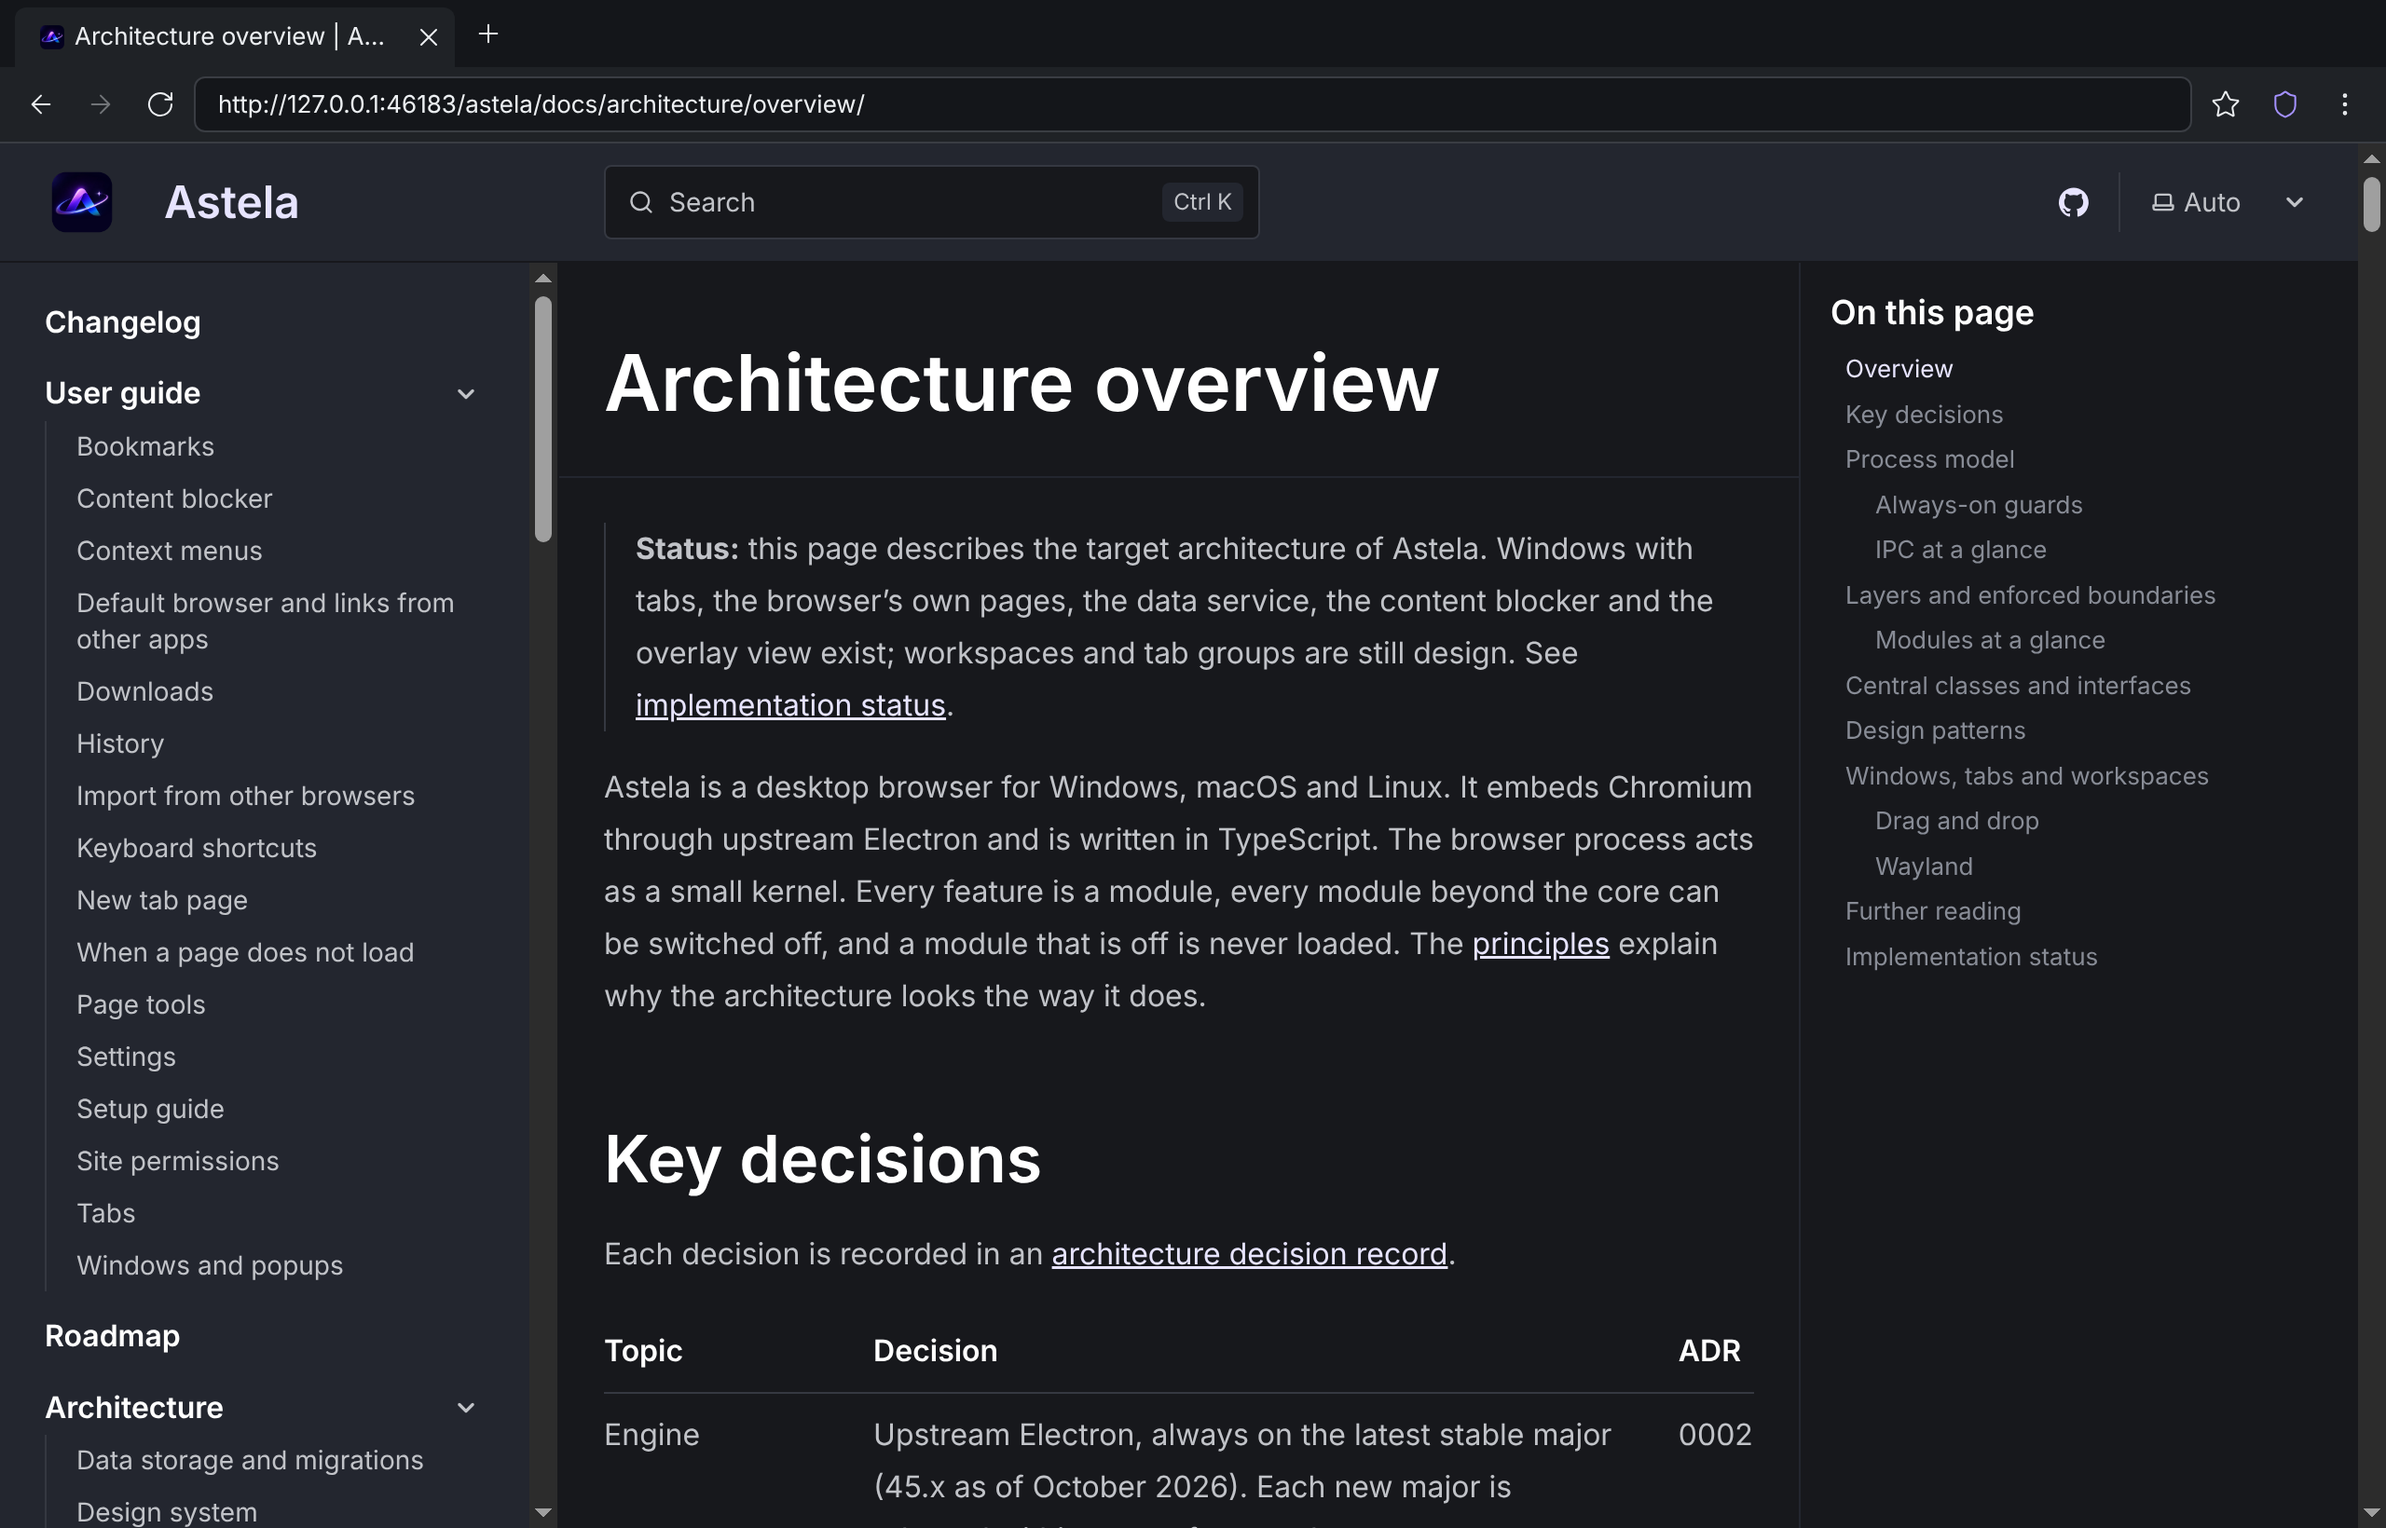
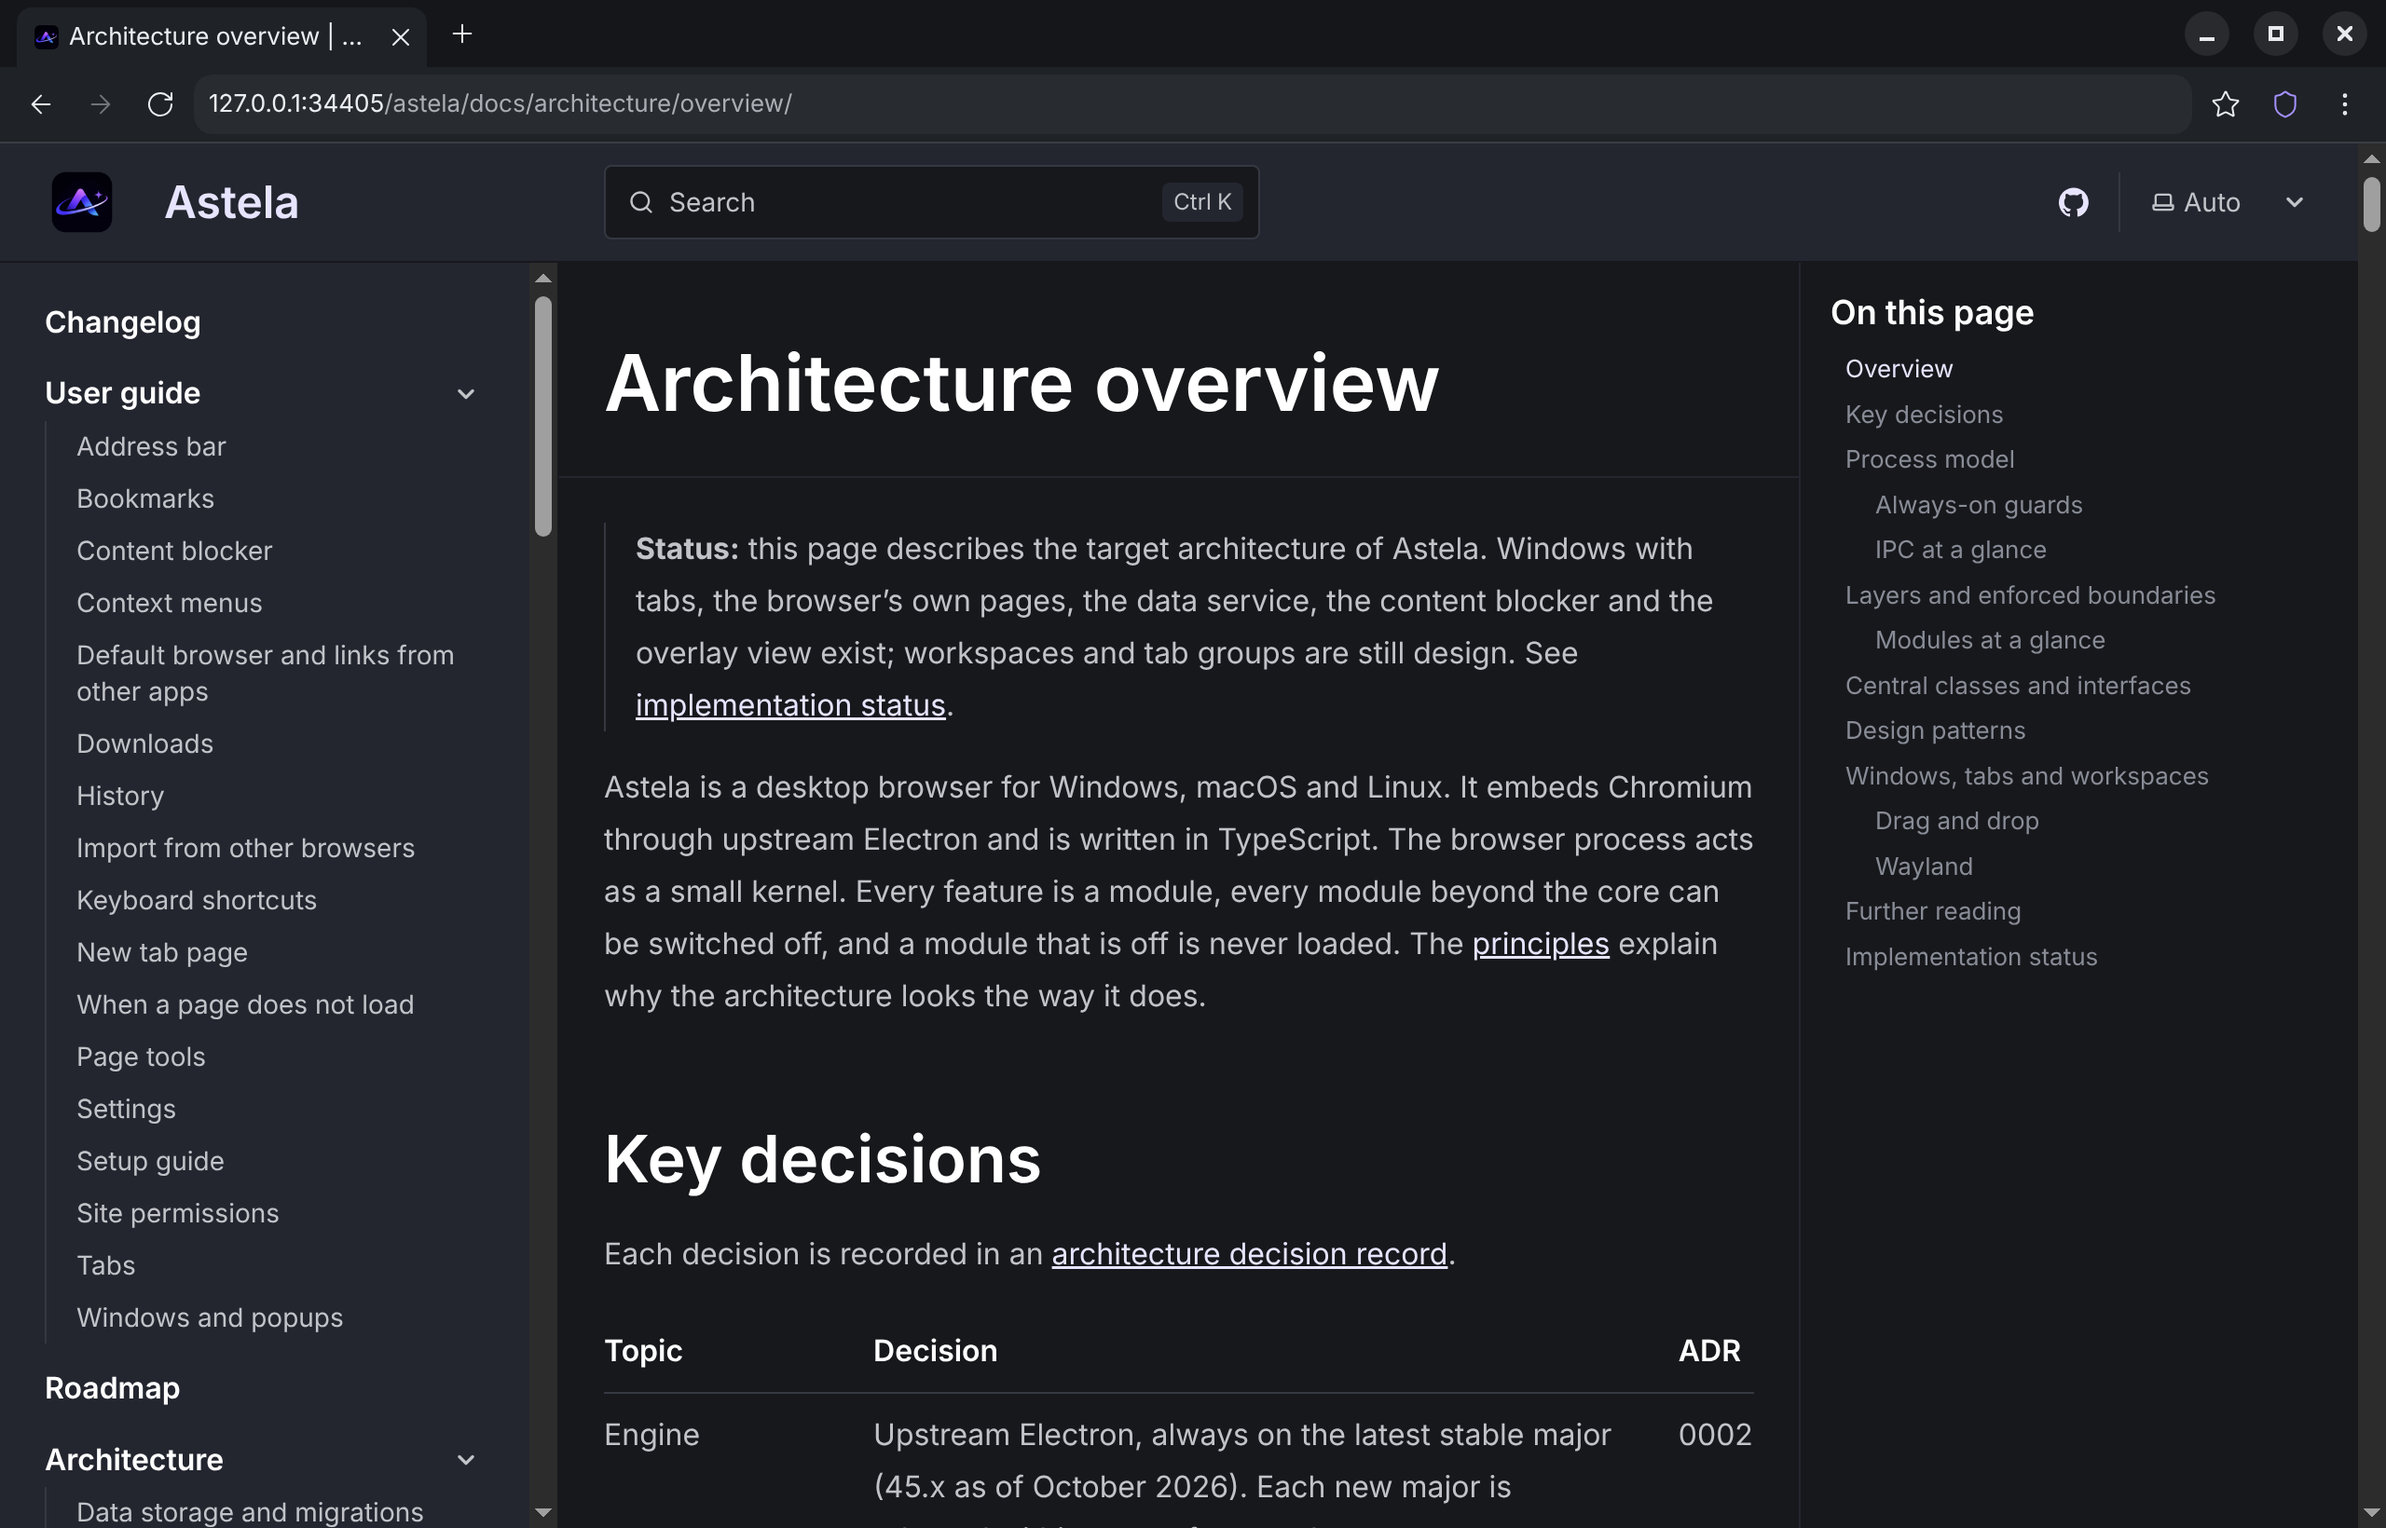
chore(release): v0.1.0-beta.6

diff --git a/CHANGELOG.md b/CHANGELOG.md
@@ -2,6 +2,29 @@
 
 All notable changes are listed here, newest first. Versions follow [Semantic Versioning](https://semver.org); prereleases (`-beta.N`) are published on the beta channel.
 
+## [0.1.0-beta.6] - 2026-11-12
+
+The sixth beta gives the browser its new logo and a calmer, more modern look. Tabs show the icons of their pages, move smoothly and can be dragged, pinned and muted; the address bar shows the site first, says how secure its connection is and suggests open tabs, bookmarks and visited pages; and the window controls move into the top row of the browser. Installed copies of 0.1.0-beta.5 receive it as an update.
+
+### Fixes
+
+- Start on macOS: after Astela quit unexpectedly, macOS no longer asks at the next start whether to reopen its windows, a question that held back the start until someone answered. Astela reopens its windows itself, as the setting **Open** on startup says.
+
+### Features
+
+- Tabs: each tab shows the icon of its page, a ring while the page loads and a button that mutes a tab that plays sound. Icons load like the images of the page, without cookies; the filter lists block them where they block the images of the page, and private windows keep theirs apart. Tabs open, close and move with short animations, and a surface slides to the active tab. A tab can be dragged to another place; with many tabs, the tabs narrow down to their icons and the tab strip scrolls, also with the mouse wheel.
+- Tab menu and pinned tabs: a right click on a tab opens a menu to open a new tab next to it, to duplicate, pin, mute or close the tab, or to close the other tabs or those after it. Pinned tabs stay at the start, show only their icon and come back after a restart. `Ctrl+1` to `Ctrl+8` choose a tab and `Ctrl+9` the last one (`Command` on macOS), also on most keyboards whose top row types other characters, such as French and Czech ones; on Windows and Linux, `Ctrl+Shift+PageUp` and `Ctrl+Shift+PageDown` move the active tab.
+- Address bar: shows the site of a page first, without `https://`, and a chip next to it says whether the connection is secure, not secure, or a page of Astela; a site whose certificate you accepted after its warning counts as not secure. What you type stays with its tab until you enter it or press Escape, and a bar along the bottom of the toolbar shows that the active tab loads.
+- Suggestions: while you type, a list below the address bar suggests what Enter will do, open tabs to switch to, bookmarks and visited pages. The arrow keys and Enter or a click choose a suggestion; Escape closes the list and keeps what you typed.
+- Title bar: the window controls are drawn in the top row of the browser, so pages get more room. The setting **Title bar** keeps the title bar of the system instead, after a restart.
+- Logo and colors: Astela has a new logo and application icon, and the colors of the logo are the colors of the browser: its violet is the default accent, and progress, such as the loading of a page or of a download, shows in its blue. An accent that you chose stays.
+- Controls: switches with a sliding knob, softer segmented controls, buttons that give way when pressed, and a bookmark star that pops when it is set.
+- Design: shared tokens for motion, radii and shadows; when the system asks for reduced motion, nothing moves.
+
+### Performance
+
+- The session is saved again only after a change that it keeps, such as a new address, a new title or a pinned tab, instead of after every change of a tab, such as its loading progress.
+
 ## [0.1.0-beta.5] - 2026-11-12
 
 The fifth beta lets you adjust the browser to the way you work. The settings page finds every setting, shows what you changed and saves the settings in a file; themes, the density, the text size and the fonts change the look; the toolbar, the new tab page, the search engines and the keyboard shortcuts can be changed; and new privacy settings open sites over HTTPS first, look up addresses over encrypted DNS and block third-party cookies. Installed copies of 0.1.0-beta.4 receive it as an update.

diff --git a/README.md b/README.md
@@ -4,7 +4,7 @@
 
 A desktop browser for Windows, macOS and Linux, built on Chromium through Electron and written in TypeScript. It has no telemetry, no ads, no sponsored tiles, no news feed and needs no account.
 
-> **Status:** early development. The current beta, 0.1.0-beta.5, is on the [releases page](https://github.com/Secoolioo/astela/releases); the [roadmap](docs/roadmap.md) lists every milestone.
+> **Status:** early development. The current beta, 0.1.0-beta.6, is on the [releases page](https://github.com/Secoolioo/astela/releases); the [roadmap](docs/roadmap.md) lists every milestone.
 
 <picture>
   <source media="(prefers-color-scheme: dark)" srcset="assets/screenshots/screenshot-dark.png">
@@ -17,25 +17,13 @@ A desktop browser for Windows, macOS and Linux, built on Chromium through Electr
 - **Your data:** history with search, bookmarks with a bar, session restore, and the import of bookmarks, history and open tabs from other browsers.
 - **Content blocker** with the default filter lists of uBlock Origin, on from the first start, with a switch per site.
 - **Customization:** a settings page with search, themes and colors of your own, density, text size and fonts, a toolbar and a new tab page to arrange, search engines with keywords and `!bangs`, and keyboard shortcuts of your own.
+- **Look and tabs:** tabs with the icons of their pages that animate, can be dragged, pinned and muted and have a menu of their own; an address bar that shows the site first with the security of its connection and suggests open tabs, bookmarks and visited pages; window controls in the top row of the browser.
 - **Privacy:** no telemetry, HTTPS-First, DNS over HTTPS, blocked third-party cookies and clearing browsing data.
 - **Packages** for Windows (NSIS installer, MSI), macOS (disk image) and Linux (AppImage, deb, rpm), for x64 and arm64. CI installs and starts every format on every change.
 - **Signed updates** with delta downloads. After two failed starts, the previous version comes back on its own. deb and rpm packages update through APT and DNF repositories.
 - **Policies** from the Windows registry, macOS configuration profiles and JSON files on Linux, read before the first window opens.
 - **Performance budgets**, measured against a bare Electron app on all three systems for every change: start-up at most 120 ms and 25 % slower than the bare app (on macOS still a target: its CI runners show 10 to 60 %, and the gate there stops at 75 % until the shell starts faster), idle memory at most 60 MB above it (50 MB on macOS), idle CPU at most 0.5 % of one core. See [performance](docs/architecture/performance.md).
 - **Security fixes** from Electron ship in a patch release within 72 hours, critical ones within 24 hours.
-
-## New on main
-
-On `main` now, and in the next beta, 0.1.0-beta.6:
-
-- **Logo and colors:** a new logo and application icon; its violet is the default accent of the browser and the accent of its website, and its blue shows progress, such as a page that loads.
-- **Tab icons:** each tab shows the icon of its page, a ring while the page loads and a button that mutes a tab that plays sound.
-- **Tabs:** animate when they open, close and move, can be dragged to a new place and stay usable when many are open.
-- **Pinned tabs and a tab menu:** a menu for each tab opens a tab next to it, duplicates, pins, mutes or closes tabs; keys choose tabs, and on Windows and Linux also move them.
-- **Address bar:** shows the site first and whether its connection is secure, keeps what you typed in each tab and shows the loading of a page.
-- **Suggestions:** while you type, a list below the address bar suggests open tabs to switch to, bookmarks and visited pages.
-- **Title bar:** the window controls sit in the top row of the browser, so pages get more room; a setting keeps the title bar of the system.
-- **Controls:** switches with a sliding knob, softer segmented controls, buttons that give way when pressed and a bookmark star that pops when it is set.
 
 ## Planned for 0.1.0
 

diff --git a/docs/roadmap.md b/docs/roadmap.md
@@ -1,6 +1,6 @@
 # Roadmap
 
-> **Status:** `0.1.0-beta.1`, the walking skeleton below, was the first release; `0.1.0-beta.2` adds context menus and the keyboard shortcuts of each system and proved the live update from `0.1.0-beta.1`; `0.1.0-beta.3` adds the setup guide, the new tab page, settings, the content blocker, history, bookmarks, session restore and the import from other browsers; `0.1.0-beta.4` adds the working basics and `0.1.0-beta.5` the customization listed below. Everything after it is still a plan; scope and order may change as the work progresses.
+> **Status:** `0.1.0-beta.1`, the walking skeleton below, was the first release; `0.1.0-beta.2` adds context menus and the keyboard shortcuts of each system and proved the live update from `0.1.0-beta.1`; `0.1.0-beta.3` adds the setup guide, the new tab page, settings, the content blocker, history, bookmarks, session restore and the import from other browsers; `0.1.0-beta.4` adds the working basics, `0.1.0-beta.5` the customization and `0.1.0-beta.6` the new tabs and address bar listed below. Everything after it is still a plan; scope and order may change as the work progresses.
 
 ## Vision
 
@@ -183,11 +183,11 @@ A full test of `0.1.0-beta.3` on real websites found pages that the content bloc
   - **Browser parts:** a customizable toolbar and new tab page; search engines with keywords and bangs; editable keyboard shortcuts.
   - **Startup, data and network:** startup and home pages, default zoom, the download folder, clearing browsing data, HTTPS-First, DNS over HTTPS and blocking third-party cookies.
 - **`0.1.0-beta.6`, a calm, modern look:**
-  - **Tokens:** motion, radius, type and elevation tokens, with no motion when the system asks for reduced motion.
-  - **Tabs and layout:** animated tabs with favicons, pinned tabs and a tab menu; layout presets with tabs in an integrated title bar, which moved here from `0.1.0-beta.5` to come with the new tabs.
-  - **Address bar:** a new address bar with site information and suggestions from history, bookmarks and open tabs.
-  - **Menus and controls:** browser menus and popovers in an overlay; switches and segmented controls; a refined dark mode.
-- **`0.1.0-beta.7`, more:** a command palette, tab search, sleeping tabs, split view, tab groups, workspaces, a reader view, a picture-in-picture button and an exact session restore with the back and forward history of each tab.
+  - **Tokens:** motion, radius and shadow tokens, with no motion when the system asks for reduced motion.
+  - **Tabs:** animated tabs with the icons of their pages that can be dragged, pinned and muted, a tab menu, and shortcuts that choose and move tabs.
+  - **Address bar and window:** an address bar that shows the site and the security of its connection, with suggestions from open tabs, bookmarks and history; the window controls in the top row of the browser.
+  - **Controls:** switches and segmented controls.
+- **`0.1.0-beta.7`, more:** a command palette, tab search, sleeping tabs, split view, tab groups, workspaces, a reader view, a picture-in-picture button and an exact session restore with the back and forward history of each tab. It also brings what `0.1.0-beta.6` planned and did not ship: layout presets such as a compact and a zen layout, site information in the address bar, browser menus and popovers in the overlay, and a refined dark mode.
 
 Saved passwords, autofill and the import of passwords follow in `0.1.0-beta.8`.
 
